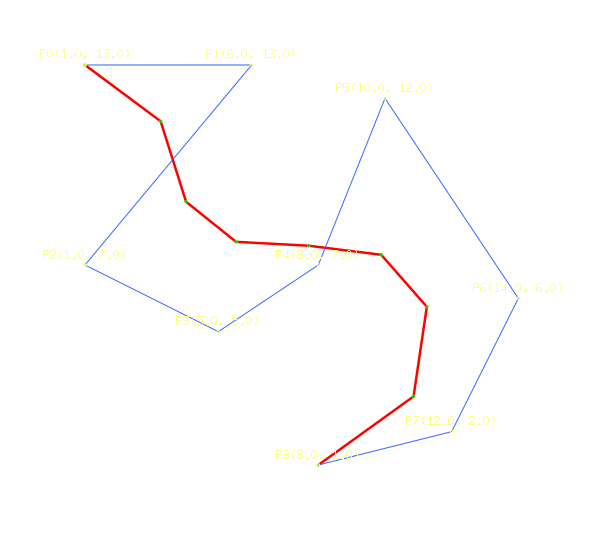
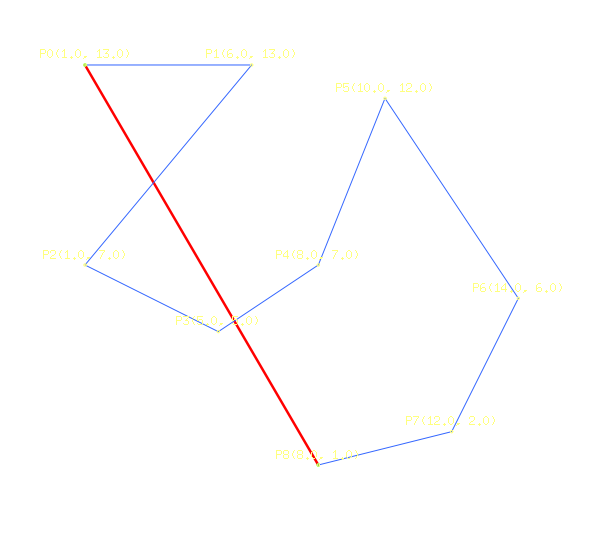
fix: update bruteforce algoritm

diff --git a/bezier.go b/bezier.go
@@ -98,20 +98,88 @@ func findMidPoint(bp BezierPoints) (BezierPoints, BezierPoints, BezierPoints) {
 
 }
 
-func getRatioPoint(p0, p1, p2 Point, ratio float64) Point {
-	one_min_r := 1 - ratio
-	end_x := one_min_r*one_min_r*p0.x + 2*one_min_r*ratio*p1.x + ratio*ratio*p2.x
-	end_y := one_min_r*one_min_r*p0.y + 2*one_min_r*ratio*p1.y + ratio*ratio*p2.y
-	return Point{end_x, end_y}
-}
-
-// func getRatioPoint4(p0, p1, p2, p3 Point, ratio float64) Point {
-// 	r1 := getRatioPoint(p0, p1, p2, ratio)
-// 	r2 := getRatioPoint(p1, p2, p3, ratio)
-// 	end_x := (1-ratio)*r1.x + ratio*r2.x
-// 	end_y := (1-ratio)*r1.y + ratio*r2.y
+// func getRatioPoint(p0, p1, p2 Point, ratio float64) Point {
+// 	one_min_r := 1 - ratio
+// 	end_x := one_min_r*one_min_r*p0.x + 2*one_min_r*ratio*p1.x + ratio*ratio*p2.x
+// 	end_y := one_min_r*one_min_r*p0.y + 2*one_min_r*ratio*p1.y + ratio*ratio*p2.y
 // 	return Point{end_x, end_y}
 // }
+
+func getRatioPoint4(points BezierPoints, sketch *gg.Context, ratio float64, pref_y int, r_x, r_y, add_x, add_y float64) Point {
+	if points.neff == 2 {
+		tmpPoint := Point{(1-ratio)*points.list[0].x + ratio*points.list[1].x, (1-ratio)*points.list[0].y + ratio*points.list[1].y}
+		sketch.SetRGB(0, 1, 0)
+		sketch.MoveTo(r_x*points.list[0].x+add_x, -(r_y*points.list[0].y+add_y)+float64(pref_y))
+		sketch.LineTo(r_x*points.list[1].x+add_x, -1*(r_y*points.list[1].y+add_y)+float64(pref_y))
+		sketch.SetLineWidth(0.3)
+		sketch.Stroke()
+		sketch.SetRGB(1, 1, 0)
+		sketch.DrawPoint(r_x*tmpPoint.x+add_x, -1*(r_y*tmpPoint.y+add_y)+float64(pref_y), 1)
+		sketch.Stroke()
+		return tmpPoint
+	}
+	newpoints := BezierPoints{}
+	for i := 1; i < points.neff; i++ {
+		sketch.SetRGB(0, 1, 0)
+		sketch.MoveTo(r_x*points.list[i-1].x+add_x, -(r_y*points.list[i-1].y+add_y)+float64(pref_y))
+		sketch.LineTo(r_x*points.list[i].x+add_x, -1*(r_y*points.list[i].y+add_y)+float64(pref_y))
+		sketch.SetLineWidth(0.3)
+		sketch.Stroke()
+		sketch.SetRGB(1, 1, 0)
+		tmpPoint := Point{(1-ratio)*points.list[i-1].x + ratio*points.list[i].x, (1-ratio)*points.list[i-1].y + ratio*points.list[i].y}
+		sketch.DrawPoint(r_x*tmpPoint.x+add_x, -1*(r_y*tmpPoint.y+add_y)+float64(pref_y), 1)
+		sketch.Stroke()
+		newpoints.insertLast(tmpPoint)
+	}
+	return getRatioPoint4(newpoints, sketch, ratio, pref_y, r_x, r_y, add_x, add_y)
+}
+
+func (bp BezierPoints) drawCurveBruteForce() BezierPoints {
+	pref_x, pref_y, r_x, r_y, add_x, add_y := getPreferredDimension(bp)
+
+	sketch := gg.NewContext(pref_x, pref_y)
+
+	points := BezierPoints{}
+
+	for i := 0; i < 41; i++ {
+		points.insertLast(getRatioPoint4(bp, sketch, float64(i)*0.025, pref_y, r_x, r_y, add_x, add_y))
+	}
+
+	sketch.SetRGB(1, 0, 0)
+	sketch.MoveTo(r_x*points.list[0].x+add_x, -1*(r_y*points.list[0].y+add_y)+float64(pref_y))
+	for i := 0; i < 40; i++ {
+		sketch.LineTo(r_x*points.list[i].x+add_x, -1*(r_y*points.list[i].y+add_y)+float64(pref_y))
+	}
+	sketch.SetLineWidth(2.5)
+	sketch.Stroke()
+
+	sketch.SetRGB(0.2, 0.5, 1)
+	for i := 0; i < 41; i++ {
+		sketch.DrawPoint(r_x*points.list[i].x+add_x, -1*(r_y*points.list[i].y+add_y)+float64(pref_y), 1.2)
+		sketch.Stroke()
+	}
+
+	sketch.SetRGB(0.2, 0.4, 1)
+	sketch.MoveTo(r_x*bp.list[0].x+add_x, -1*(r_y*bp.list[0].y+add_y)+float64(pref_y))
+	for i := 1; i < bp.neff; i++ {
+		sketch.LineTo(r_x*bp.list[i].x+add_x, -1*(r_y*bp.list[i].y+add_y)+float64(pref_y))
+	}
+	sketch.SetLineWidth(1.8)
+	sketch.Stroke()
+
+	sketch.SetRGB(1, 1, 0.5)
+	for i := 0; i < bp.neff; i++ {
+		sketch.DrawPoint(r_x*bp.list[i].x+add_x, -1*(r_y*bp.list[i].y+add_y)+float64(pref_y), 1.2)
+		sketch.DrawStringAnchored(fmt.Sprintf("P%d(%0.1f, %0.1f)", i, bp.list[i].x, bp.list[i].y), r_x*bp.list[i].x+add_x, -1*(r_y*bp.list[i].y+add_y)+float64(pref_y), 0.5, -0.5)
+		sketch.Stroke()
+	}
+
+	if err := sketch.SavePNG("bezier_curve_brute_force.png"); err != nil {
+		fmt.Println("Error saving PNG:", err)
+	}
+
+	return points
+}
 
 // func (points BezierPoints) findCurveBruteForce4() BezierPoints {
 // 	add := 0.01
@@ -124,16 +192,16 @@ func getRatioPoint(p0, p1, p2 Point, ratio float64) Point {
 // 	return curve
 // }
 
-func (points BezierPoints) findCurveBruteForce() BezierPoints {
-	add := 0.01
-	curve := BezierPoints{}
-	curve.insertLast(points.list[0])
-	for i := 1; i < 100; i++ {
-		curve.insertLast(getRatioPoint(points.list[0], points.list[1], points.list[2], float64(i)*(add)))
-	}
-	curve.insertLast(points.list[2])
-	return curve
-}
+// func (points BezierPoints) findCurveBruteForce() BezierPoints {
+// 	add := 0.01
+// 	curve := BezierPoints{}
+// 	curve.insertLast(points.list[0])
+// 	for i := 1; i < 100; i++ {
+// 		curve.insertLast(getRatioPoint(points.list[0], points.list[1], points.list[2], float64(i)*(add)))
+// 	}
+// 	curve.insertLast(points.list[2])
+// 	return curve
+// }
 
 func getPreferredDimension(corner BezierPoints) (int, int, float64, float64, float64, float64) {
 	min_x := corner.list[0].x
@@ -238,39 +306,39 @@ func drawSketch(points, corner BezierPoints, iter int) {
 	}
 }
 
-func drawSketchBruteForce(points, corner BezierPoints) {
-	pref_x, pref_y, r_x, r_y, add_x, add_y := getPreferredDimension(corner)
+// func drawSketchBruteForce(points, corner BezierPoints) {
+// 	pref_x, pref_y, r_x, r_y, add_x, add_y := getPreferredDimension(corner)
 
-	newSketch := gg.NewContext(pref_x, pref_y)
-	newSketch.SetRGB(1, 0, 0)
-	newSketch.MoveTo(r_x*points.list[0].x+add_x, -1*(r_y*points.list[0].y+add_y)+float64(pref_y))
-	for i := 0; i < points.neff; i++ {
-		newSketch.LineTo(r_x*points.list[i].x+add_x, -1*(r_y*points.list[i].y+add_y)+float64(pref_y))
-	}
-	newSketch.SetLineWidth(2.5)
-	newSketch.Stroke()
-	newSketch.SetRGB(0.2, 0.4, 1)
-	newSketch.MoveTo(r_x*corner.list[0].x+add_x, -1*(r_y*corner.list[0].y+add_y)+float64(pref_y))
-	for i := 1; i < corner.neff; i++ {
-		newSketch.LineTo(r_x*corner.list[i].x+add_x, -1*(r_y*corner.list[i].y+add_y)+float64(pref_y))
-	}
-	newSketch.SetLineWidth(1)
-	newSketch.Stroke()
-	newSketch.SetRGB(0, 1, 0)
-	for i := 0; i < points.neff; i++ {
-		newSketch.DrawPoint(r_x*points.list[i].x+add_x, -1*(r_y*points.list[i].y+add_y)+float64(pref_y), 1.2)
-		newSketch.Stroke()
-	}
-	newSketch.SetRGB(1, 1, 0.5)
-	for i := 0; i < corner.neff; i++ {
-		newSketch.DrawPoint(r_x*corner.list[i].x+add_x, -1*(r_y*corner.list[i].y+add_y)+float64(pref_y), 1.2)
-		newSketch.DrawStringAnchored(fmt.Sprintf("P%d(%0.1f, %0.1f)", i, corner.list[i].x, corner.list[i].y), r_x*corner.list[i].x+add_x, -1*(r_y*corner.list[i].y+add_y)+float64(pref_y), 0.5, -0.5)
-		newSketch.Stroke()
-	}
-	if err := newSketch.SavePNG("bezier_curve_brute_force.png"); err != nil {
-		fmt.Println("Error saving PNG:", err)
-	}
-}
+// 	newSketch := gg.NewContext(pref_x, pref_y)
+// 	newSketch.SetRGB(1, 0, 0)
+// 	newSketch.MoveTo(r_x*points.list[0].x+add_x, -1*(r_y*points.list[0].y+add_y)+float64(pref_y))
+// 	for i := 0; i < points.neff; i++ {
+// 		newSketch.LineTo(r_x*points.list[i].x+add_x, -1*(r_y*points.list[i].y+add_y)+float64(pref_y))
+// 	}
+// 	newSketch.SetLineWidth(2.5)
+// 	newSketch.Stroke()
+// 	newSketch.SetRGB(0.2, 0.4, 1)
+// 	newSketch.MoveTo(r_x*corner.list[0].x+add_x, -1*(r_y*corner.list[0].y+add_y)+float64(pref_y))
+// 	for i := 1; i < corner.neff; i++ {
+// 		newSketch.LineTo(r_x*corner.list[i].x+add_x, -1*(r_y*corner.list[i].y+add_y)+float64(pref_y))
+// 	}
+// 	newSketch.SetLineWidth(1)
+// 	newSketch.Stroke()
+// 	newSketch.SetRGB(0, 1, 0)
+// 	for i := 0; i < points.neff; i++ {
+// 		newSketch.DrawPoint(r_x*points.list[i].x+add_x, -1*(r_y*points.list[i].y+add_y)+float64(pref_y), 1.2)
+// 		newSketch.Stroke()
+// 	}
+// 	newSketch.SetRGB(1, 1, 0.5)
+// 	for i := 0; i < corner.neff; i++ {
+// 		newSketch.DrawPoint(r_x*corner.list[i].x+add_x, -1*(r_y*corner.list[i].y+add_y)+float64(pref_y), 1.2)
+// 		newSketch.DrawStringAnchored(fmt.Sprintf("P%d(%0.1f, %0.1f)", i, corner.list[i].x, corner.list[i].y), r_x*corner.list[i].x+add_x, -1*(r_y*corner.list[i].y+add_y)+float64(pref_y), 0.5, -0.5)
+// 		newSketch.Stroke()
+// 	}
+// 	if err := newSketch.SavePNG("bezier_curve_brute_force.png"); err != nil {
+// 		fmt.Println("Error saving PNG:", err)
+// 	}
+// }
 
 func main() {
 	// point1 := Point{-50, 350}
@@ -282,18 +350,17 @@ func main() {
 	// point7 := Point{550, 190}
 	// point8 := Point{445, 300}
 	start := time.Now()
-	points := BezierPoints{[]Point{{165, 615}, {265, 115}, {765, 115}}, 3}
+	// points := BezierPoints{[]Point{{165, 615}, {265, 115}, {765, 115}, {865, 615}}, 4}
 	// points.insertLast(point1, point2, point3)
 	// points.insertLast(point1, point2, point3, point4, point5, point6, point7, point8)
 
 	points2 := BezierPoints{[]Point{{1, 13}, {6, 13}, {1, 7}, {5, 5}, {8, 7}, {10, 12}, {14, 6}, {12, 2}, {8, 1}}, 9}
 	// fmt.Println(points2)
 
-	curveDnC := points2.findCurve(12)
-	curveBF := points.findCurveBruteForce()
+	curveDnC := points2.findCurve(9)
+	points2.drawCurveBruteForce()
 	elapsedTime := time.Since(start)
 
 	fmt.Printf("Time Elapsed: %0.3fms", float64(elapsedTime.Milliseconds()))
 	drawSketch(curveDnC, points2, 12)
-	drawSketchBruteForce(curveBF, points)
 }
